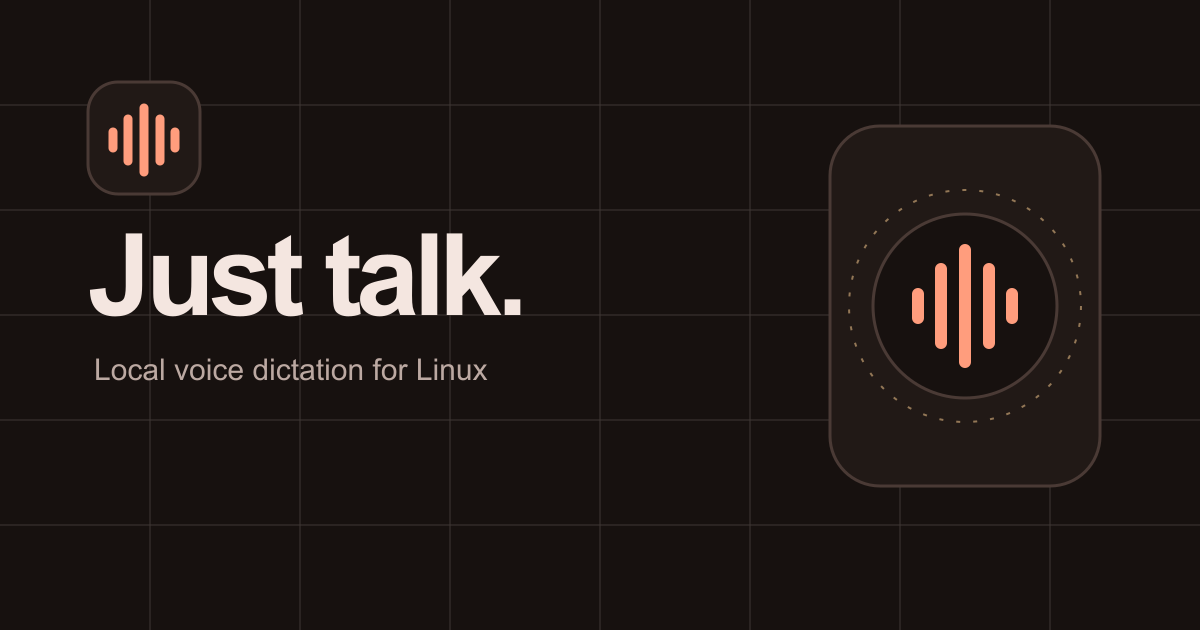
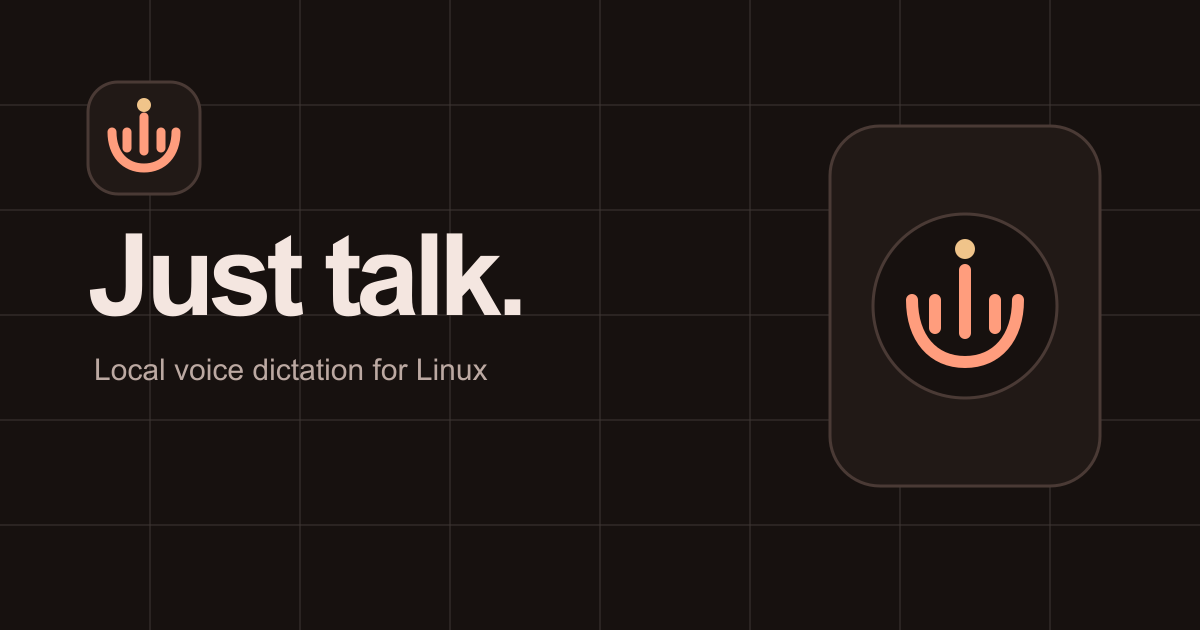
design: polish Nabria landing page

Changed region(s): [[0.74, 0.3619, 0.8633, 0.6032], [0.0925, 0.1508, 0.1542, 0.2714]]

diff --git a/docs/ar/index.html b/docs/ar/index.html
@@ -8,12 +8,12 @@
   <meta property="og:title" content="نَبْرة | احكِ وبس">
   <meta property="og:description" content="إملاء صوتي محلي للينكس. بدون حساب وبدون سحابة.">
   <meta property="og:type" content="website">
-  <meta property="og:image" content="../assets/nabria-social.png">
+  <meta property="og:image" content="../assets/nabria-social.png?v=2">
   <title>نَبْرة | احكِ وبس</title>
-  <link rel="icon" href="../assets/nabria-mark.svg" type="image/svg+xml">
-  <link rel="preload" href="../assets/site.css?v=6" as="style">
-  <link rel="stylesheet" href="../assets/site.css?v=6">
-  <script src="../assets/site.js?v=6" defer></script>
+  <link rel="icon" href="../assets/nabria-mark.svg?v=2" type="image/svg+xml">
+  <link rel="preload" href="../assets/site.css?v=8" as="style">
+  <link rel="stylesheet" href="../assets/site.css?v=8">
+  <script src="../assets/site.js?v=8" defer></script>
 </head>
 <body>
   <a class="skip-link" href="#main">انتقل للمحتوى</a>
@@ -21,7 +21,7 @@
   <header class="site-header" data-menu-open="false">
     <div class="wrap header-inner">
       <a class="brand" href="./" aria-label="الصفحة الرئيسية لنَبْرة">
-        <img src="../assets/nabria-mark.svg" alt="" width="38" height="38">
+        <img src="../assets/nabria-mark.svg?v=2" alt="" width="38" height="38">
         <span class="brand-name"><strong>نَبْرة</strong><small lang="en" dir="ltr">Nabria</small></span>
       </a>
 
@@ -243,7 +243,7 @@
 
   <footer class="site-footer">
     <div class="wrap footer-main">
-      <a class="footer-brand" href="./"><img src="../assets/nabria-mark.svg" alt="" width="36" height="36"><span><strong>نَبْرة</strong><small>إملاء صوتي محلي للينكس</small></span></a>
+      <a class="footer-brand" href="./"><img src="../assets/nabria-mark.svg?v=2" alt="" width="36" height="36"><span><strong>نَبْرة</strong><small>إملاء صوتي محلي للينكس</small></span></a>
       <nav class="footer-links" aria-label="روابط التذييل"><a href="https://github.com/M7MMAD-OMAR/nabria-app">المصدر</a><a href="https://github.com/M7MMAD-OMAR/nabria-app/blob/main/README.md">الدليل</a><a href="https://github.com/M7MMAD-OMAR/nabria-app/blob/main/LICENSE">ترخيص MIT</a><a href="https://buymeacoffee.com/m7mmadomar">ادعم العمل</a></nav>
       <a class="sbarah-link" href="https://sbarah.com" aria-label="زيارة موقع صبارة"><span>مشروع من</span><img src="../assets/sbarah-logo.svg" alt="صبارة" width="70" height="37"></a>
     </div>

diff --git a/docs/index.html b/docs/index.html
@@ -8,12 +8,12 @@
   <meta property="og:title" content="Nabria | Just talk">
   <meta property="og:description" content="Local voice dictation for Linux. No account, no cloud.">
   <meta property="og:type" content="website">
-  <meta property="og:image" content="assets/nabria-social.png">
+  <meta property="og:image" content="assets/nabria-social.png?v=2">
   <title>Nabria | Just talk</title>
-  <link rel="icon" href="assets/nabria-mark.svg" type="image/svg+xml">
-  <link rel="preload" href="assets/site.css?v=6" as="style">
-  <link rel="stylesheet" href="assets/site.css?v=6">
-  <script src="assets/site.js?v=6" defer></script>
+  <link rel="icon" href="assets/nabria-mark.svg?v=2" type="image/svg+xml">
+  <link rel="preload" href="assets/site.css?v=8" as="style">
+  <link rel="stylesheet" href="assets/site.css?v=8">
+  <script src="assets/site.js?v=8" defer></script>
 </head>
 <body>
   <a class="skip-link" href="#main">Skip to content</a>
@@ -21,7 +21,7 @@
   <header class="site-header" data-menu-open="false">
     <div class="wrap header-inner">
       <a class="brand" href="./" aria-label="Nabria home">
-        <img src="assets/nabria-mark.svg" alt="" width="38" height="38">
+        <img src="assets/nabria-mark.svg?v=2" alt="" width="38" height="38">
         <span class="brand-name"><strong>Nabria</strong><small lang="ar" dir="rtl">نَبْرة</small></span>
       </a>
 
@@ -243,7 +243,7 @@
 
   <footer class="site-footer">
     <div class="wrap footer-main">
-      <a class="footer-brand" href="./"><img src="assets/nabria-mark.svg" alt="" width="36" height="36"><span><strong>Nabria</strong><small>Local voice dictation for Linux</small></span></a>
+      <a class="footer-brand" href="./"><img src="assets/nabria-mark.svg?v=2" alt="" width="36" height="36"><span><strong>Nabria</strong><small>Local voice dictation for Linux</small></span></a>
       <nav class="footer-links" aria-label="Footer navigation"><a href="https://github.com/M7MMAD-OMAR/nabria-app">Source</a><a href="https://github.com/M7MMAD-OMAR/nabria-app/blob/main/README.md">Docs</a><a href="https://github.com/M7MMAD-OMAR/nabria-app/blob/main/LICENSE">MIT licence</a><a href="https://buymeacoffee.com/m7mmadomar">Support the work</a></nav>
       <a class="sbarah-link" href="https://sbarah.com" aria-label="Visit Sbarah"><span>A Sbarah project</span><img src="assets/sbarah-logo.svg" alt="Sbarah" width="70" height="37"></a>
     </div>

diff --git a/docs/assets/site.js b/docs/assets/site.js
@@ -1,6 +1,8 @@
 (() => {
   const header = document.querySelector(".site-header");
   const menuButton = document.querySelector(".menu-toggle");
+  const pageMain = document.querySelector("main");
+  const pageFooter = document.querySelector(".site-footer");
 
   const closeMenu = () => {
     if (!header || !menuButton) return;
@@ -8,6 +10,8 @@
     menuButton.setAttribute("aria-expanded", "false");
     menuButton.setAttribute("aria-label", menuButton.dataset.openLabel || "Open menu");
     document.body.classList.remove("menu-open");
+    if (pageMain) pageMain.inert = false;
+    if (pageFooter) pageFooter.inert = false;
   };
 
   if (header && menuButton) {
@@ -20,6 +24,8 @@
         open ? menuButton.dataset.closeLabel || "Close menu" : menuButton.dataset.openLabel || "Open menu",
       );
       document.body.classList.toggle("menu-open", open);
+      if (pageMain) pageMain.inert = open;
+      if (pageFooter) pageFooter.inert = open;
     });
 
     header.querySelectorAll("a").forEach((link) => link.addEventListener("click", closeMenu));

diff --git a/docs/assets/site.css b/docs/assets/site.css
@@ -1210,19 +1210,34 @@ html[dir="rtl"] .closing .button {
 
   .primary-nav {
     inset-block-start: var(--header-height);
-    padding: 34px 24px 22px;
+    padding: 24px 24px 16px;
     flex-direction: column;
     align-items: flex-start;
-    gap: 24px;
+    gap: 4px;
     border-block-end: 0;
   }
 
+  .primary-nav a {
+    inline-size: 100%;
+    min-block-size: 44px;
+    display: flex;
+    align-items: center;
+  }
+
   .header-actions {
-    inset-block-start: calc(var(--header-height) + 190px);
-    padding: 20px 24px 34px;
+    inset-block-start: calc(var(--header-height) + 228px);
+    padding: 16px 24px 28px;
     flex-direction: column;
     align-items: stretch;
     border-block-end: 1px solid var(--line-dark);
+  }
+
+  body.menu-open::before {
+    content: "";
+    position: fixed;
+    inset: var(--header-height) 0 0;
+    z-index: 40;
+    background: var(--night);
   }
 
   .header-actions .header-link,
